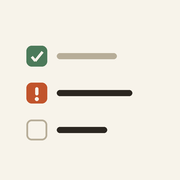
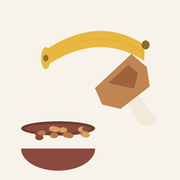
Add files via upload

Changed region(s): [[0.1389, 0.1667, 0.8333, 0.6111], [0.1111, 0.6389, 0.6111, 0.9722], [0.1389, 0.4444, 0.2778, 0.5833]]

diff --git a/index.html b/index.html
@@ -26,6 +26,7 @@
     --higiene:#A9A297;
     --frios:#D8B23C;
     --carnes:#C08552;
+    --avulsos:#8A7F6B;
   }
   *{box-sizing:border-box;}
   html,body{margin:0;padding:0;}
@@ -51,10 +52,15 @@
 
   .sync-status{
     font-family:-apple-system,BlinkMacSystemFont,'Segoe UI',sans-serif;
-    font-size:11px; display:flex; align-items:center; gap:5px; color:var(--ink-soft);
+    font-size:11px; display:flex; align-items:center; gap:6px; color:var(--ink-soft);
+    flex-shrink:0;
   }
   .dot{width:7px;height:7px;border-radius:50%;background:#C7BFA9;}
   .dot.on{background:var(--cart);}
+  .me-btn{
+    border:1px solid var(--paper-line); background:#fff; color:var(--ink-soft);
+    border-radius:20px; padding:3px 10px; font-size:11px; cursor:pointer;
+  }
 
   .counts{
     font-family:-apple-system,BlinkMacSystemFont,'Segoe UI',sans-serif;
@@ -113,9 +119,24 @@
   li.item[data-state="1"] .box{background:var(--need); border-color:var(--need);}
   li.item[data-state="2"] .box{background:var(--cart); border-color:var(--cart);}
 
+  .item-text{flex:1; min-width:0;}
   .item-name{font-size:15.5px; line-height:1.3;}
+  .item-note{font-family:-apple-system,BlinkMacSystemFont,'Segoe UI',sans-serif; font-size:12px; font-style:italic; color:var(--ink-soft); margin-top:1px;}
   li.item[data-state="1"] .item-name{color:var(--need); font-weight:600;}
   li.item[data-state="2"] .item-name{color:var(--ink-soft); text-decoration:line-through; text-decoration-color:#9DB9A3;}
+
+  .initials{
+    width:19px; height:19px; border-radius:50%; flex-shrink:0;
+    display:flex; align-items:center; justify-content:center;
+    font-family:-apple-system,BlinkMacSystemFont,'Segoe UI',sans-serif;
+    font-size:9px; font-weight:700; color:#fff;
+  }
+  .note-btn{
+    flex-shrink:0; border:none; background:none; font-size:14px; color:var(--paper-line);
+    padding:4px 2px; cursor:pointer; font-family:sans-serif;
+  }
+  li.item[data-state="0"] .note-btn{color:var(--paper-line);}
+  li.item .note-btn.has-note{color:var(--ink-soft);}
 
   .empty-search{font-family:-apple-system,BlinkMacSystemFont,'Segoe UI',sans-serif; text-align:center; color:var(--ink-soft); font-size:13px; padding:30px 0;}
 
@@ -139,6 +160,12 @@
   .modal-actions button{flex:1; padding:11px; border-radius:9px; border:none; font-size:14px; cursor:pointer;}
   .modal-actions .cancel{background:#EEE8D9; color:var(--ink-soft);}
   .modal-actions .confirm{background:var(--ink); color:#fff;}
+  .chips{display:flex; flex-wrap:wrap; gap:7px; margin:-4px 0 12px;}
+  .chip{
+    border:1px solid var(--paper-line); background:#fff; color:var(--ink-soft);
+    border-radius:20px; padding:5px 11px; font-size:12.5px; cursor:pointer;
+  }
+  .chips-label{font-size:11px; color:var(--ink-soft); margin-bottom:6px;}
 </style>
 </head>
 <body>
@@ -149,7 +176,10 @@
       <h1>Lista de <em>Compras</em></h1>
       <div class="subtitle">toque 1x: falta · toque 2x: no carrinho</div>
     </div>
-    <div class="sync-status"><span class="dot" id="syncDot"></span><span id="syncText">conectando...</span></div>
+    <div class="sync-status">
+      <span class="dot" id="syncDot"></span><span id="syncText">conectando...</span>
+      <button class="me-btn" id="btnMe">eu</button>
+    </div>
   </div>
   <div class="counts">
     <div class="count-pill need"><span class="num" id="countNeed">0</span>faltando</div>
@@ -176,7 +206,7 @@
 
 <script type="module">
 import { initializeApp } from "https://www.gstatic.com/firebasejs/10.13.0/firebase-app.js";
-import { getDatabase, ref, onValue, set, get } from "https://www.gstatic.com/firebasejs/10.13.0/firebase-database.js";
+import { getDatabase, ref, onValue, set } from "https://www.gstatic.com/firebasejs/10.13.0/firebase-database.js";
 
 const firebaseConfig = {
   apiKey: "AIzaSyBhVp-f2J9DeDy75NuR5eLkj05RBnuO8Ww",
@@ -192,6 +222,7 @@ const app = initializeApp(firebaseConfig);
 const db = getDatabase(app);
 const stateRef = ref(db, 'estadoItens');
 const customRef = ref(db, 'itensPersonalizados');
+const historyRef = ref(db, 'historicoAvulsos');
 
 const CATEGORIES = [
   { id: 'limpeza', name: 'Materiais de Limpeza', color: 'var(--limpeza)', items: [
@@ -211,17 +242,72 @@ const CATEGORIES = [
   ]},
   { id: 'higiene', name: 'Material de Higiene', color: 'var(--higiene)', items: [
     "Papel higiênico","Sabonete em barra","Pasta de dente","Escova de dente","Cotonete","Algodão","Desodorante","Sabonete infantil","Pasta de dente infantil","Escova de dente infantil","Shampoo infantil","Condicionador infantil","Lenço umedecido"
-  ]}
+  ]},
+  { id: 'avulsos', name: 'Avulsos', color: 'var(--avulsos)', items: [] }
 ];
 
-let state = {};
-let customItems = {};
+const PERSON_COLORS = ['#C1542C','#4C7A5A','#7C9CBF','#8A5FA0','#C98CA0','#B08A2E'];
+
+let state = {};        // key -> {s, note, by}
+let customItems = {};  // catId -> [names]
+let history = {};      // name -> timestamp
 let filterMode = 'all';
 let collapsed = {};
 let searchTerm = '';
 
+// ---- identidade local (por aparelho) ----
+let myName = localStorage.getItem('lc_user_name') || '';
+function updateMeBtn(){
+  document.getElementById('btnMe').textContent = myName ? initialsOf(myName) : 'eu';
+}
+function initialsOf(name){
+  const parts = name.trim().split(/\s+/).filter(Boolean);
+  if(parts.length === 0) return '?';
+  if(parts.length === 1) return parts[0].slice(0,2).toUpperCase();
+  return (parts[0][0] + parts[1][0]).toUpperCase();
+}
+function colorFor(name){
+  let sum = 0;
+  for(const ch of name) sum += ch.charCodeAt(0);
+  return PERSON_COLORS[sum % PERSON_COLORS.length];
+}
+function askName(prefill){
+  const backdrop = document.createElement('div');
+  backdrop.className = 'modal-backdrop';
+  backdrop.innerHTML = `
+    <div class="modal">
+      <h3>Como você quer aparecer?</h3>
+      <input type="text" id="nameInput" placeholder="Nome ou iniciais (ex: Gustavo, GS)" maxlength="16" value="${prefill||''}">
+      <div class="modal-actions">
+        <button class="cancel" id="cancelName">Agora não</button>
+        <button class="confirm" id="confirmName">Salvar</button>
+      </div>
+    </div>`;
+  document.body.appendChild(backdrop);
+  const input = document.getElementById('nameInput');
+  input.focus();
+  document.getElementById('cancelName').addEventListener('click', ()=> backdrop.remove());
+  backdrop.addEventListener('click', (e)=>{ if(e.target === backdrop) backdrop.remove(); });
+  document.getElementById('confirmName').addEventListener('click', ()=>{
+    const v = input.value.trim();
+    if(v){ myName = v; localStorage.setItem('lc_user_name', v); updateMeBtn(); }
+    backdrop.remove();
+  });
+}
+document.getElementById('btnMe').addEventListener('click', ()=> askName(myName));
+if(!myName){ setTimeout(()=> askName(''), 400); }
+updateMeBtn();
+
+// ---- utilidades de estado ----
 function safeKey(name){ return name.replace(/[.#$\[\]\/]/g, '_'); }
 function keyFor(catId, name){ return catId + '__' + safeKey(name); }
+
+function getMeta(catId, name){
+  const raw = state[keyFor(catId, name)];
+  if(raw == null) return {s:0, note:'', by:''};
+  if(typeof raw === 'number') return {s:raw, note:'', by:''};
+  return {s: raw.s||0, note: raw.note||'', by: raw.by||''};
+}
 
 let writeTimer = null;
 function scheduleWrite(){
@@ -233,9 +319,26 @@ function scheduleWrite(){
 
 function cycleState(catId, name){
   const k = keyFor(catId, name);
-  const cur = state[k] || 0;
-  const next = (cur + 1) % 3;
-  if(next === 0){ delete state[k]; } else { state[k] = next; }
+  const meta = getMeta(catId, name);
+  const next = (meta.s + 1) % 3;
+  if(next === 0){
+    delete state[k];
+  } else {
+    state[k] = { s: next, note: meta.note, by: myName || meta.by || '' };
+  }
+  render();
+  scheduleWrite();
+}
+
+function saveNote(catId, name, noteText){
+  const k = keyFor(catId, name);
+  const meta = getMeta(catId, name);
+  const newS = (meta.s === 0 && noteText.trim()) ? 1 : meta.s;
+  if(newS === 0 && !noteText.trim()){
+    delete state[k];
+  } else {
+    state[k] = { s: newS, note: noteText.trim(), by: myName || meta.by || '' };
+  }
   render();
   scheduleWrite();
 }
@@ -250,9 +353,9 @@ function countAll(){
   CATEGORIES.forEach(cat=>{
     allCategoryItems(cat).forEach(name=>{
       total++;
-      const s = state[keyFor(cat.id, name)] || 0;
-      if(s === 1) need++;
-      if(s === 2) cart++;
+      const m = getMeta(cat.id, name);
+      if(m.s === 1) need++;
+      if(m.s === 2) cart++;
     });
   });
   return {need, cart, total};
@@ -271,8 +374,8 @@ function render(){
 
   CATEGORIES.forEach(cat=>{
     const items = allCategoryItems(cat).filter(name=>{
-      const s = state[keyFor(cat.id, name)] || 0;
-      if(filterMode === 'need' && s !== 1) return false;
+      const m = getMeta(cat.id, name);
+      if(filterMode === 'need' && m.s !== 1) return false;
       if(term && !name.toLowerCase().includes(term)) return false;
       return true;
     });
@@ -283,7 +386,7 @@ function render(){
     catDiv.className = 'cat' + (collapsed[cat.id] ? ' collapsed' : '');
     catDiv.style.setProperty('--cat-color', cat.color);
 
-    const remaining = allCategoryItems(cat).filter(n => (state[keyFor(cat.id,n)]||0) === 1).length;
+    const remaining = allCategoryItems(cat).filter(n => getMeta(cat.id,n).s === 1).length;
 
     const head = document.createElement('div');
     head.className = 'cat-head';
@@ -296,12 +399,26 @@ function render(){
     const ul = document.createElement('ul');
     ul.className = 'items';
     items.forEach(name=>{
-      const s = state[keyFor(cat.id, name)] || 0;
+      const m = getMeta(cat.id, name);
       const li = document.createElement('li');
       li.className = 'item';
-      li.setAttribute('data-state', s);
-      const boxContent = s === 1 ? '!' : (s === 2 ? '✓' : '');
-      li.innerHTML = `<span class="box">${boxContent}</span><span class="item-name">${name}</span>`;
+      li.setAttribute('data-state', m.s);
+      const boxContent = m.s === 1 ? '!' : (m.s === 2 ? '✓' : '');
+
+      const initialsHtml = (m.s !== 0 && m.by)
+        ? `<span class="initials" style="background:${colorFor(m.by)}">${initialsOf(m.by)}</span>`
+        : '';
+      const noteHtml = m.note ? `<div class="item-note">${escapeHtml(m.note)}</div>` : '';
+
+      li.innerHTML = `<span class="box">${boxContent}</span>
+        <span class="item-text"><span class="item-name">${escapeHtml(name)}</span>${noteHtml}</span>
+        ${initialsHtml}
+        <button class="note-btn ${m.note ? 'has-note':''}" title="Nota/quantidade">✎</button>`;
+
+      li.querySelector('.note-btn').addEventListener('click', (e)=>{
+        e.stopPropagation();
+        openNoteModal(cat.id, name, m.note);
+      });
       li.addEventListener('click', ()=> cycleState(cat.id, name));
       ul.appendChild(li);
     });
@@ -320,12 +437,20 @@ function render(){
     cart > 0 && need === 0 ? 'Tudo que faltava já está no carrinho 🛒' : '';
 }
 
+function escapeHtml(s){
+  return s.replace(/[&<>"']/g, c => ({'&':'&amp;','<':'&lt;','>':'&gt;','"':'&quot;',"'":'&#39;'}[c]));
+}
+
 document.getElementById('searchInput').addEventListener('input', (e)=>{ searchTerm = e.target.value; render(); });
 document.getElementById('btnShowNeed').addEventListener('click', ()=>{ filterMode = 'need'; render(); });
 document.getElementById('btnShowAll').addEventListener('click', ()=>{ filterMode = 'all'; render(); });
 
 document.getElementById('btnNewTrip').addEventListener('click', ()=>{
-  Object.keys(state).forEach(k=>{ if(state[k] === 2) delete state[k]; });
+  Object.keys(state).forEach(k=>{
+    const raw = state[k];
+    const s = typeof raw === 'number' ? raw : (raw && raw.s);
+    if(s === 2) delete state[k];
+  });
   render();
   scheduleWrite();
 });
@@ -336,13 +461,46 @@ document.getElementById('btnMarkNeeded').addEventListener('click', ()=>{
 
 document.getElementById('btnAddItem').addEventListener('click', openAddModal);
 
+function openNoteModal(catId, name, currentNote){
+  const backdrop = document.createElement('div');
+  backdrop.className = 'modal-backdrop';
+  backdrop.innerHTML = `
+    <div class="modal">
+      <h3>${escapeHtml(name)}</h3>
+      <input type="text" id="noteInput" placeholder="Quantidade ou observação (ex: 2 pacotes, sem lactose)" value="${escapeHtml(currentNote||'')}">
+      <div class="modal-actions">
+        <button class="cancel" id="cancelNote">Cancelar</button>
+        <button class="confirm" id="confirmNote">Salvar</button>
+      </div>
+    </div>`;
+  document.body.appendChild(backdrop);
+  const input = document.getElementById('noteInput');
+  input.focus();
+  document.getElementById('cancelNote').addEventListener('click', ()=> backdrop.remove());
+  backdrop.addEventListener('click', (e)=>{ if(e.target === backdrop) backdrop.remove(); });
+  document.getElementById('confirmNote').addEventListener('click', ()=>{
+    saveNote(catId, name, input.value);
+    backdrop.remove();
+  });
+}
+
 function openAddModal(){
   const backdrop = document.createElement('div');
   backdrop.className = 'modal-backdrop';
-  const catOptions = CATEGORIES.map(c=>`<option value="${c.id}">${c.name}</option>`).join('');
+  const catOptions = CATEGORIES.map(c=>`<option value="${c.id}" ${c.id==='avulsos'?'selected':''}>${c.name}</option>`).join('');
+
+  const recent = Object.entries(history)
+    .sort((a,b)=> b[1]-a[1])
+    .slice(0, 10)
+    .map(([n])=>n);
+  const chipsHtml = recent.length
+    ? `<div class="chips-label">Usados antes:</div><div class="chips">${recent.map(n=>`<button type="button" class="chip" data-name="${escapeHtml(n)}">${escapeHtml(n)}</button>`).join('')}</div>`
+    : '';
+
   backdrop.innerHTML = `
     <div class="modal">
       <h3>Adicionar item</h3>
+      ${chipsHtml}
       <input type="text" id="newItemName" placeholder="Nome do item">
       <select id="newItemCat">${catOptions}</select>
       <div class="modal-actions">
@@ -354,13 +512,29 @@ function openAddModal(){
   document.getElementById('newItemName').focus();
   document.getElementById('cancelAdd').addEventListener('click', ()=> backdrop.remove());
   backdrop.addEventListener('click', (e)=>{ if(e.target === backdrop) backdrop.remove(); });
+
+  backdrop.querySelectorAll('.chip').forEach(chip=>{
+    chip.addEventListener('click', ()=>{
+      document.getElementById('newItemName').value = chip.getAttribute('data-name');
+    });
+  });
+
   document.getElementById('confirmAdd').addEventListener('click', ()=>{
     const name = document.getElementById('newItemName').value.trim();
     const catId = document.getElementById('newItemCat').value;
     if(!name) return;
     if(!customItems[catId]) customItems[catId] = [];
-    customItems[catId].push(name);
-    set(customRef, customItems).catch(e=> console.error('Falha ao salvar item novo', e));
+    if(!customItems[catId].includes(name)){
+      customItems[catId].push(name);
+      set(customRef, customItems).catch(e=> console.error('Falha ao salvar item novo', e));
+    }
+    history[name] = Date.now();
+    set(historyRef, history).catch(e=> console.error('Falha ao salvar histórico', e));
+
+    const k = keyFor(catId, name);
+    state[k] = { s: 1, note: '', by: myName || '' };
+    scheduleWrite();
+
     backdrop.remove();
     render();
   });
@@ -379,6 +553,10 @@ onValue(stateRef, (snapshot)=>{
 onValue(customRef, (snapshot)=>{
   customItems = snapshot.val() || {};
   render();
+});
+
+onValue(historyRef, (snapshot)=>{
+  history = snapshot.val() || {};
 });
 </script>
 </body>
